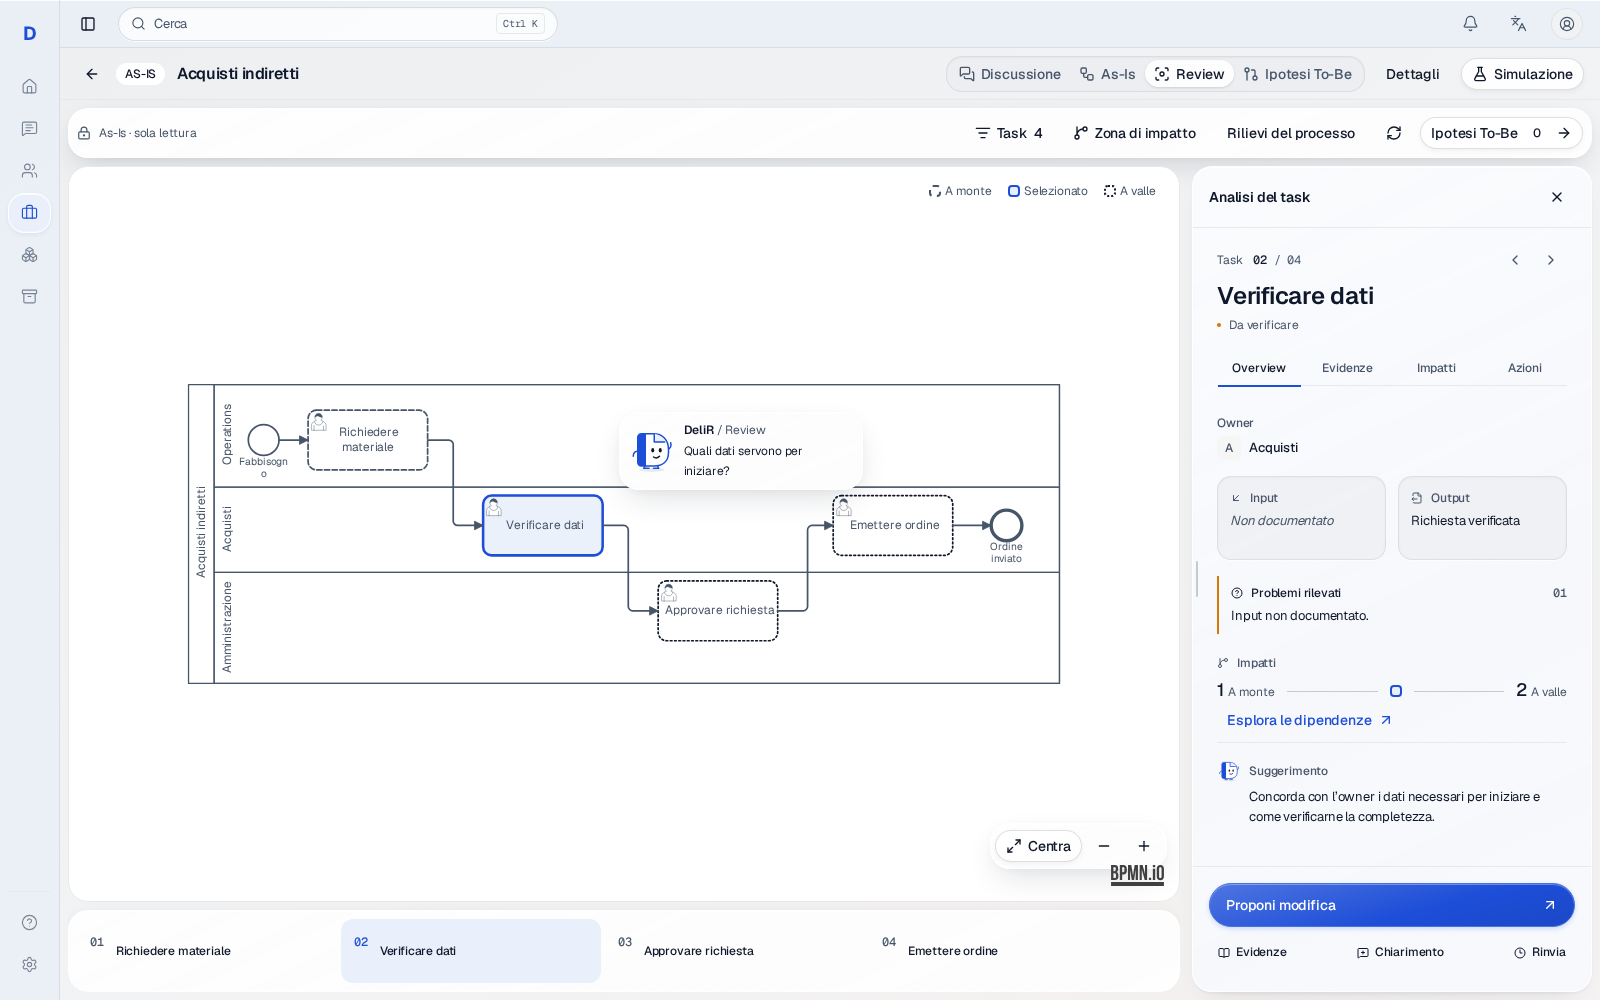
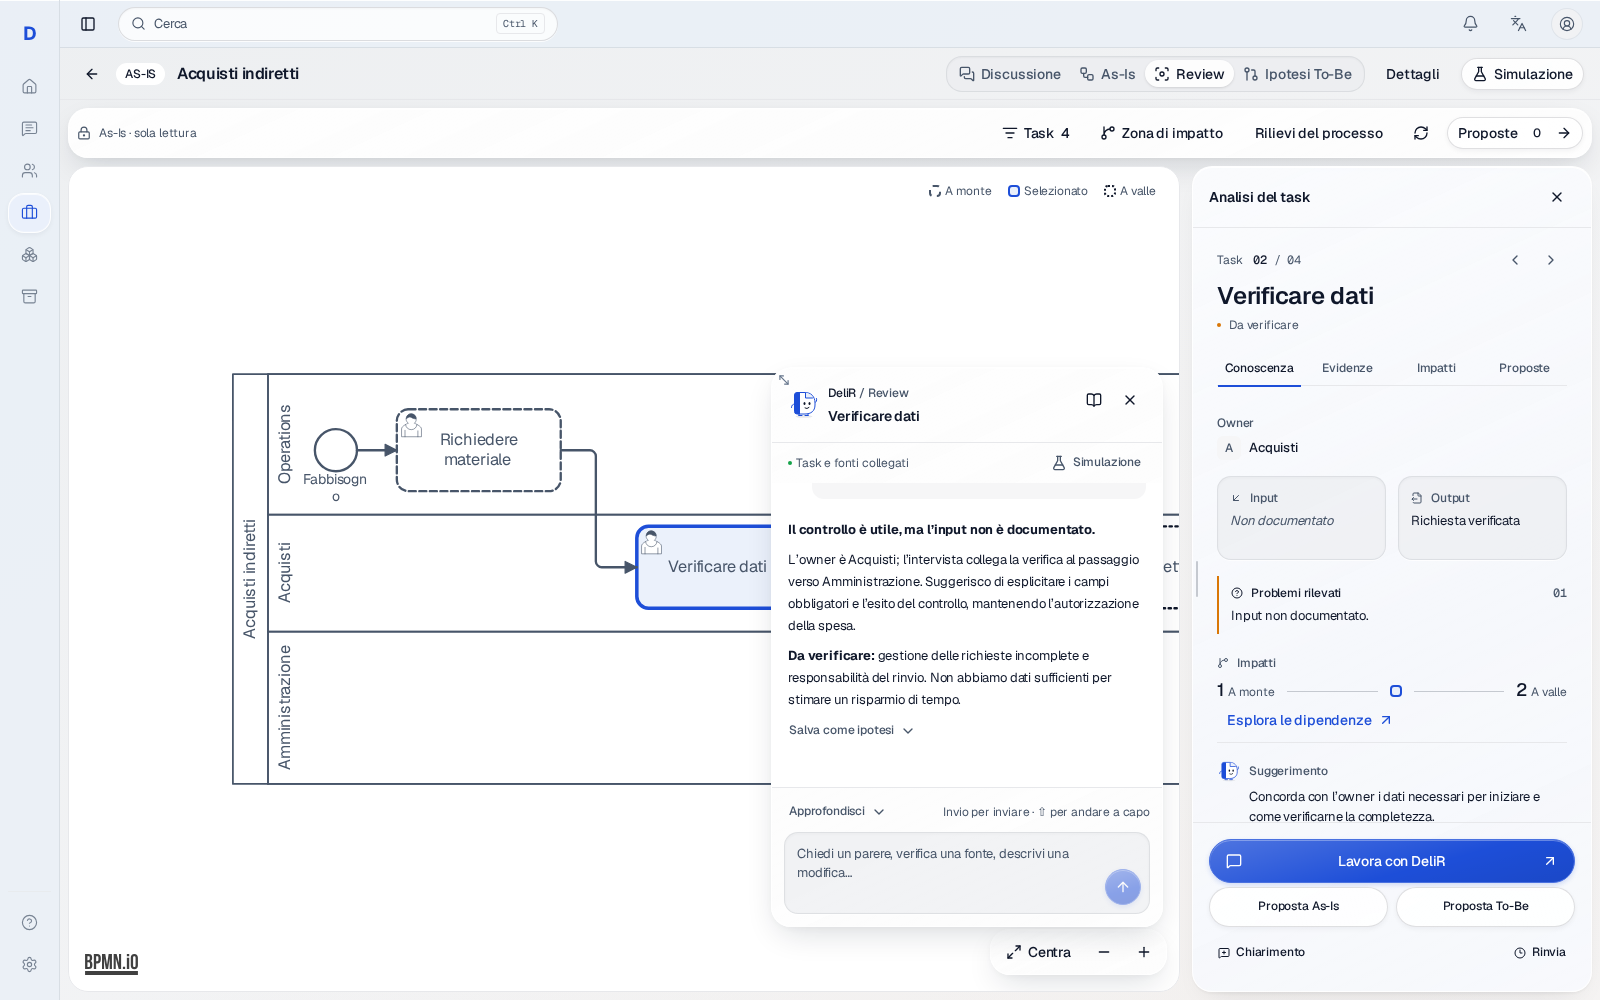
docs(review): show validated product screens and agent editing evidence

diff --git a/docs/design/process-review.md b/docs/design/process-review.md
@@ -1,139 +1,140 @@
-# Process Review — workspace enterprise Satin
+# Process Review — agente contestuale sul canvas
 
-As-Is descrive, Review interpreta, To-Be raccoglie le ipotesi di trasformazione.
+La Review è lo spazio di lavoro tra comprensione As-Is e trasformazione To-Be.
+Il consulente può leggere il processo, chiedere un parere motivato, approfondire
+fonti e dipendenze e far preparare diagrammi separati da presentare.
 
-La nuova vista Review ispeziona il modello salvato senza introdurre comandi di
-modifica del diagramma. Selezionare un task apre una scheda breve ancorata al
-nodo e un inspector con Overview, Evidenze, Impatti e Azioni. La scheda minima
-contiene owner, input, output, problemi rilevati, impatti e suggerimento.
+## Interazione
 
-## Interazione e mascotte
+Selezionare un task aggancia la mascotte DeliR al nodo. La chat parte chiusa e
+si apre al clic sulla mascotte. Il canvas conserva zoom e posizione. La striscia
+di task al piede è stata rimossa; resta una lista con ricerca, accessibile da
+tastiera, per selezionare anche i task fuori dall'inquadratura.
 
-Una mascotte SVG originale, costruita come una D ripiegata con un volto e
-piccole estremità, appare nella bolla contestuale. Compie un giro breve
-quando cambia il task selezionato o viene attivata; il movimento termina e
-rispetta `prefers-reduced-motion`. Il canvas conserva zoom e posizione durante
-la navigazione dei tab e il cambio del focus sulle dipendenze. Su schermi
-compatti il dettaglio occupa il pannello di lavoro; chiuderlo restituisce il
-canvas e il focus alla selezione dei task.
+La chat consente testo libero, risposte in streaming, interruzione e retry.
+Conversazioni e bozze sono distinte per task: una risposta tardiva non compare
+nella conversazione del task successivo. Chiudere la chat restituisce il focus
+alla mascotte. L'angolo superiore sinistro ridimensiona larghezza e altezza,
+anche da tastiera: frecce per muovere l'angolo, Home per ripristinare. Le dimensioni
+rimangono durante selezione di altri task e riapertura, entro lo spazio del canvas.
 
-La scheda presenta il task come un dossier: titolo e posizione nella review,
-owner, input/output affiancati, rilievi con un accento di stato discreto e un
-perimetro delle dipendenze leggibile. Il suggerimento è specifico per il primo
-campo da chiarire. I tab usano la variante `line` esistente. La navigazione
-numerata al piede del canvas e i controlli precedente/successivo permettono di
-ispezionare le attività in sequenza senza riaprire l'elenco; la voce selezionata
-resta visibile anche quando il binario scorre su mobile.
+Le scorciatoie sono inviti, non un elenco chiuso di funzioni. Si può chiedere di:
 
-Le quattro azioni rimangono nel footer dell'ispettore durante la navigazione
-dei tab e lo scroll. Questo usa uno slot `footer` opzionale in
-`WorkspaceInspector`, condivisibile dagli altri workspace senza cambiarne il
-comportamento. Le ipotesi To-Be hanno un registro numerato con task di origine,
-data e ritorno diretto alla relativa scheda.
+- Ricostruire owner, input, output, regole, documenti ed eccezioni.
+- Verificare fonti, citazioni, lacune e contraddizioni.
+- Dare un parere e confrontare alternative, handoff, controlli e automazione.
+- Preparare domande per l'owner e un piano di verifica.
+- Leggere simulazioni registrate, distinguendo risultati misurati da ipotesi.
+- Modificare un diagramma in una proposta As-Is o To-Be separata.
 
-Le quattro azioni sono Mostra evidenze, Chiedi chiarimento, Proponi modifica e
-Ignora per ora. Le ultime tre registrano un'azione persistente. Chiedi
-chiarimento registra la domanda per il consulente: questa versione non invia
-messaggi e non esegue chiamate a un agente. Le candidate change compaiono nella
-vista To-Be come ipotesi, senza applicare automaticamente modifiche al modello.
+Il pulsante Conoscenza apre il pannello destro su richiesta. Le viste sono
+Conoscenza, Evidenze, Impatti e Proposte. Il footer consente di lavorare con
+DeliR, preparare una proposta As-Is/To-Be, registrare un chiarimento o rinviare
+un punto. Chiedere una proposta dal footer precompila una richiesta modificabile
+nella chat; il consulente decide cosa inviare.
 
-## Design system
+## Proposte da presentare
 
-Il layout riusa `CanvasWorkspaceShell`, `WorkspaceCommandBar`,
-`WorkspaceInspector`, `WorkspaceDisclosure`, `Surface` e le primitive UI
-esistenti. Palette, font, materiali, spaziatura e motion restano quelli del
-[Satin design system](satin-design-system.md).
+Una risposta può diventare un'ipotesi testuale As-Is o To-Be, con titolo e testo
+modificabili prima della registrazione. Su richiesta esplicita di modificare il
+diagramma, l'agente può creare una versione BPMN separata e poi revisionarla.
+Gli strumenti supportano aggiunta/eliminazione di attività, etichette, note,
+assegnazione a lane, collegamento/ricollegamento dei flussi e ridisegno del layout.
 
-La direzione Apple Glass è tradotta nel materiale `Surface floating` già
-presente: toolbar, navigazione numerata, bolla contestuale e controlli canvas.
-L'inspector usa `panel`, i dati input/output `inset` e i tab la variante `line`.
-`WorkspaceCommandBar` espone una scelta opzionale `material`; il default degli
-altri workspace resta `toolbar`. Non vengono aggiunti palette, blur o ombre
-locali. Diagramma e testo restano opachi; le superfici ereditano i fallback del
-design system per trasparenza ridotta e assenza di supporto al backdrop filter.
+Le proposte con diagramma si aprono dal pannello destro o dal registro. Si può
+alternare proposta e As-Is originale e scaricare un file `.bpmn` da presentare.
+Il registro distingue correzioni alla rappresentazione As-Is da ipotesi To-Be.
+L'originale e il piano canonico non vengono sostituiti dalla Review.
 
-### Confronto con riferimenti pubblici
+## Conoscenza, scope e persistenza
 
-Consultati il 7 ottobre 2026. Il confronto usa documentazione, immagini e
-presentazioni pubbliche, senza accesso ai workspace autenticati. Le decisioni
-per DeliR sono interpretazioni progettuali, non risultati di test sui prodotti.
+La chat usa le sessioni e lo stream esistenti, con una chiave dedicata al task.
+Il backend verifica tenant, progetto, processo, modello, task e revisione prima
+di aprire una sessione o accettare il messaggio. Il grafo Review ha strumenti
+propri e non passa dal percorso canvas che può ricostruire il piano.
 
-| Riferimento | Osservazione dalla fonte | Scelta per DeliR |
-| --- | --- | --- |
-| [Apple Materials](https://developer.apple.com/design/human-interface-guidelines/materials) | Liquid Glass distingue controlli e navigazione dal contenuto. | Materiale flottante sui comandi; contenuto del processo leggibile su superfici stabili. |
-| [SAP Signavio Process Modeler](https://www.signavio.com/products/process-modeler/) e [immagine ufficiale del modeler](https://cdn.signavio.com/uploads/2023/08/Process-Manager-Collaborative-process-modeling-1-1536x1018-1.png) | Il canvas occupa il centro, con strumenti al bordo e accesso laterale ad attributi e viste. | Canvas centrale, inspector contestuale, navigazione dei task al piede. |
-| [Celonis Process Analysis](https://www.celonis.com/platform/process-analysis) | Process Explorer, analisi delle deviazioni e monitoraggio delle opportunità appartengono a funzioni distinte. Le immagini della pagina sono illustrazioni promozionali. | Evidenze e perimetro strutturale separati dalle ipotesi To-Be; nessun KPI non misurato. |
-| [ARIS Platform](https://aris.com/platform/) e [guida di modellazione](https://docs.aris.com/latest/ypl-basic/en-us/43902-modeling-component-quick-start.html) | Modellazione, valutazione e confronto degli scenari sono passaggi distinti; l'illustrazione pubblica confronta scenari A/B/C. | Registro delle ipotesi con origine e data, collegamento alla simulazione esistente per verificarne gli effetti. |
+Gli identificativi degli strumenti sono iniettati dal runtime: l'LLM non sceglie
+un altro processo. L'agente legge snapshot, semantica, relazioni, gap,
+tracciabilità, diagrammi e risultati registrati. Le proposte riusano il motore
+BPMN deterministico. Le operazioni vengono applicate a una copia; soltanto una
+proposta valida viene registrata. Una modifica della base durante il lavoro
+viene rifiutata alla scrittura. Non vengono avviate nuove simulazioni dalla chat:
+si preparano gli input e si apre la superficie Simulazione esistente.
 
-Quattro ruoli in `frontend/styles/tokens/semantic.css` risolvono su token
-semantici esistenti, mantenendo la catena verso i primitive token:
+Owner, input e output del pannello derivano dai riferimenti esatti del
+compilatore verso il piano; l'owner può provenire dalla lane BPMN. Le dipendenze
+seguono rami, gateway e cicli. Questo perimetro strutturale non è una previsione
+di performance. Dati mancanti e limiti delle evidenze restano espliciti.
 
-| Ruolo Review | Token esistente |
+`GET /v1/workspace/processes/{id}/impact-review` legge base e registro;
+`POST .../impact-review/actions` registra ipotesi con UUID idempotente e controllo
+della revisione. Il dialog conserva il testo dopo un conflitto 409.
+La migrazione `0030_review_proposal_diagrams`, dopo `0029_impact_review_actions`,
+aggiunge XML autonomo alle proposte e il tipo `as_is_proposal`.
+
+## Design system e riferimenti
+
+La UI riusa `CanvasWorkspaceShell`, `WorkspaceCommandBar`, `WorkspaceInspector`,
+`CanvasResizeHandle`, `Surface`, Button, Tabs, Dialog e DropdownMenu. Materiali,
+font, primitive token e semantic token sono quelli del
+[Satin design system](satin-design-system.md): `floating` per chat e comandi,
+`panel` per il dettaglio, `inset` per dati e compositore. Contenuti e diagrammi
+rimangono opachi. Non sono introdotti blur, ombre o palette locali.
+
+La mascotte SVG originale riprende una D ripiegata. Il breve movimento al cambio
+di task termina e rispetta `prefers-reduced-motion`; non c'è animazione continua.
+Gli stati del grafo usano i quattro ruoli Review in `semantic.css`, risolti sui
+token esistenti, con tratteggi e legenda oltre al colore.
+
+Il confronto consultato il 7 ottobre 2026 usa fonti pubbliche, non workspace
+autenticati né test di utilizzo dei prodotti concorrenti.
+
+| Riferimento | Scelta per DeliR |
 | --- | --- |
-| `--review-color-selected` | `--color-action-primary` |
-| `--review-surface-selected` | `--color-surface-selected` |
-| `--review-color-upstream` | `--color-text-secondary` |
-| `--review-color-downstream` | `--color-text-primary` |
+| [Apple Materials](https://developer.apple.com/design/human-interface-guidelines/materials) | Materiale flottante per i controlli, contenuto leggibile e stabile. |
+| [SAP Signavio Process Modeler](https://www.signavio.com/products/process-modeler/) | Canvas centrale e accesso contestuale agli attributi. |
+| [Celonis Process Analysis](https://www.celonis.com/platform/process-analysis) | Distinguere evidenze, opportunità e risultati di performance misurati. |
+| [ARIS Platform](https://aris.com/platform/) | Proposte autonome da valutare e confrontare prima dell'applicazione. |
 
-Le dipendenze hanno anche bordi tratteggiati/punteggiati e una legenda. I task
-collegati usano neutri; il blu identifica il task selezionato e le azioni. I
-default del renderer BPMN leggono i token semantici a runtime e mantengono i
-colori importati esplicitamente nel diagramma. I task
-sono raggiungibili dalla lista con ricerca, senza dipendere dall'interazione
-con l'SVG. Dialog e inspector gestiscono il ritorno del focus.
+## Screen del prodotto
 
-## Fonti, impatti e persistenza
+Catture Playwright della UI implementata, con API e risposte dell'agente simulate
+su un processo interamente sintetico. Non sono mockup né processi di clienti;
+non dimostrano la qualità delle risposte di un modello reale.
 
-Owner, input e output provengono dal piano canonico tramite riferimenti esatti
-del compilatore; l'owner può essere letto anche dalla lane BPMN. I dati mancanti
-restano dichiarati come non documentati. Le evidenze usano la provenienza
-esistente; i rilievi generali rimangono distinti dall'analisi del singolo nodo.
+- [Canvas con mascotte, chat chiusa](process-review/canvas-desktop.png)
+- [Chat desktop](process-review/agent-chat-desktop.png)
+- [Chat mobile](process-review/agent-chat-mobile.png)
+- [Dettaglio chat](process-review/agent-detail.png)
+- [Conoscenza del task](process-review/overview-desktop.png)
+- [Impatti](process-review/impacts-desktop.png)
+- [Evidenze](process-review/evidence-desktop.png)
+- [Registro proposte](process-review/tobe-desktop.png)
+- [Proposta As-Is separata](process-review/as-is-proposal-desktop.png)
+- [Nuovo task e owner: BPMN prodotto dal tool reale](process-review/engine-proposal-desktop.png)
 
-La zona di impatto segue sequence flow, gateway, rami e cicli; collega inoltre
-le associazioni documentali presenti nel BPMN. Controlli e regole sono collegati
-tramite gli identificativi del piano. È un perimetro di dipendenza strutturale,
-non una previsione dei tempi o una diagnosi misurata di colli di bottiglia.
-Il pannello consente di aprire la simulazione esistente per approfondire.
-
-`GET /v1/workspace/processes/{id}/impact-review` legge XML salvato, piano e
-registro delle azioni. `POST .../impact-review/actions` aggiunge un'azione
-tenant-scoped con UUID idempotente, autore e revisione della base. Una base
-modificata restituisce 409 e conserva il testo nel dialog per la consultazione.
-Il salvataggio blocca le righe della base durante la verifica e non aggiorna
-XML o piano. La migrazione workspace `0029_impact_review_actions` aggiunge la
-tabella con cancellazione a cascata del processo.
-
-## Schermate del prodotto
-
-Schermate generate da Playwright sulla vera UI con API simulate e dati
-completamente sintetici. Non documentano un processo di un cliente.
-
-- [Overview desktop e mascotte](process-review/overview-desktop.png)
-- [Impatti desktop](process-review/impacts-desktop.png)
-- [Evidenze desktop](process-review/evidence-desktop.png)
-- [Ipotesi To-Be desktop](process-review/tobe-desktop.png)
-- [Canvas mobile e mascotte](process-review/mascot-mobile.png)
-- [Overview mobile](process-review/overview-mobile.png)
-- [Dettaglio della mascotte DeliR](process-review/mascot-detail.png)
-
-![Review desktop](process-review/overview-desktop.png)
+![Agente di Review](process-review/agent-chat-desktop.png)
 
 ## Verifica
 
-Verifiche locali: lint, TypeScript, build produzione e budget bundle, Ruff e mypy;
-356 test unit frontend, inclusi parser/modello Review e viewport BPMN; 8 test backend con Postgres
-isolato; 6 scenari Playwright su Chromium desktop e mobile, con Axe su Overview,
-dialog e To-Be. I controlli coprono persistenza, isolamento tenant, revisioni
-obsolete, idempotenza, assenza di mutazioni As-Is, errori delle evidenze, focus,
-layout compatto e movimento ridotto. Migrazione verificata su database nuovo e
-con downgrade/upgrade della nuova revisione. La matrice Safari non è stata
-eseguita in questa sessione.
+Test su Postgres isolato coprono persistenza, tenant, revisione, atomicità e
+revisioni successive delle proposte. Un test esegue il ciclo reale LangGraph →
+tool → proposta persistita con un modello simulato, senza chiamate a pagamento.
+Copre sia una rinomina sia l'aggiunta di un task, l'assegnazione a una nuova lane
+e il ricollegamento del flusso, verificando geometria, tracciabilità e conservazione
+dell'originale. Il BPMN generato viene confrontato con gli artefatti della fixture
+browser: Playwright importa proprio quel risultato, controlla task, owner e tre
+collegamenti visibili, e verifica che l'export corrisponda al file prodotto.
+Questo dimostra la catena di modifica e rendering nei casi coperti; non certifica
+la comprensione di ogni richiesta libera da parte di un modello reale.
 
-Il passaggio di personalizzazione verifica inoltre la navigazione dei task,
-il ritorno del focus al task corrente, la visibilità dell'azione principale nel
-viewport e il ritorno dal registro To-Be al task associato.
+I test browser su Chromium desktop e mobile coprono apertura al clic,
+ridimensionamento con puntatore/tastiera, cronologia e bozze isolate per task,
+risposte tardive, retry, conflitti, diagrammi, confronto ed esportazione.
+Apertura e resize mantengono libera l'attribuzione BPMN anche su mobile.
+Axe controlla chat, conoscenza, registro e confronto dei diagrammi. Typecheck,
+lint, test unitari, Ruff, mypy e build con budget bundle completano i controlli;
+la matrice Safari e la suite integrale backend vengono eseguite in GitHub CI.
 
-Skill locali applicate: `frontend-dev-guidelines`, `react-ui-patterns`,
-`ui-ux-designer`, `ui-ux-pro-max`, `tailwind-design-system`,
-`ui-visual-validator`, `accessibility-compliance-accessibility-audit`, secondo
-il routing di `AGENTS.md`.
+Skill locali applicate secondo `AGENTS.md`: UX, React UI patterns, design system,
+accessibilità e validazione visiva.
